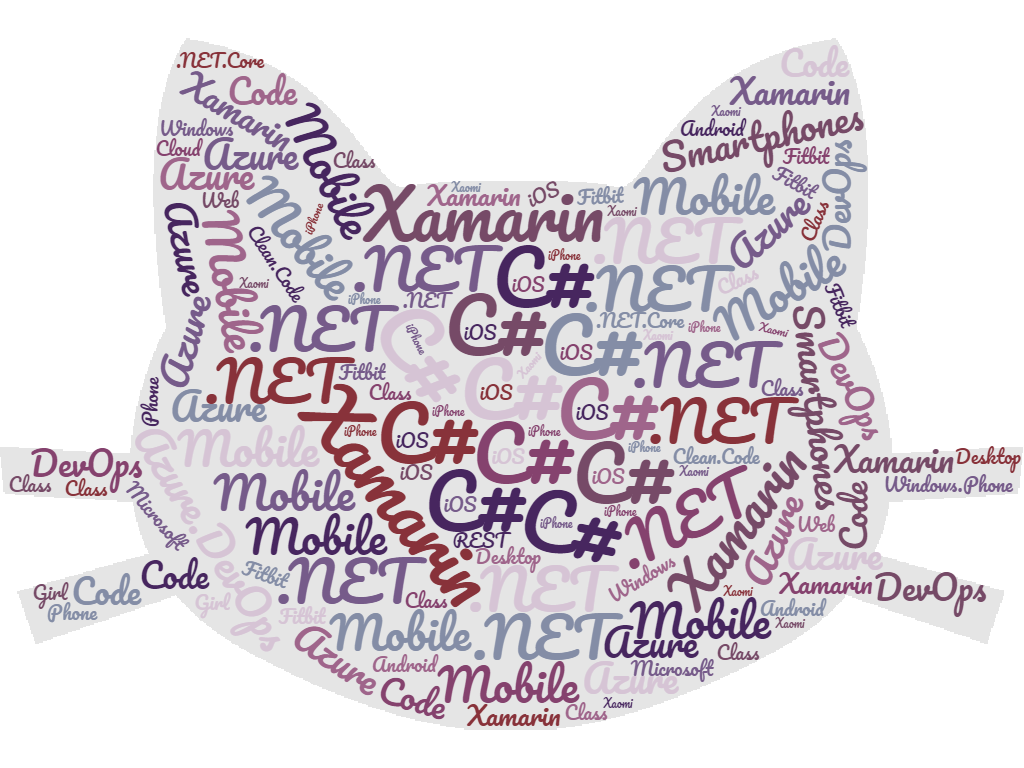
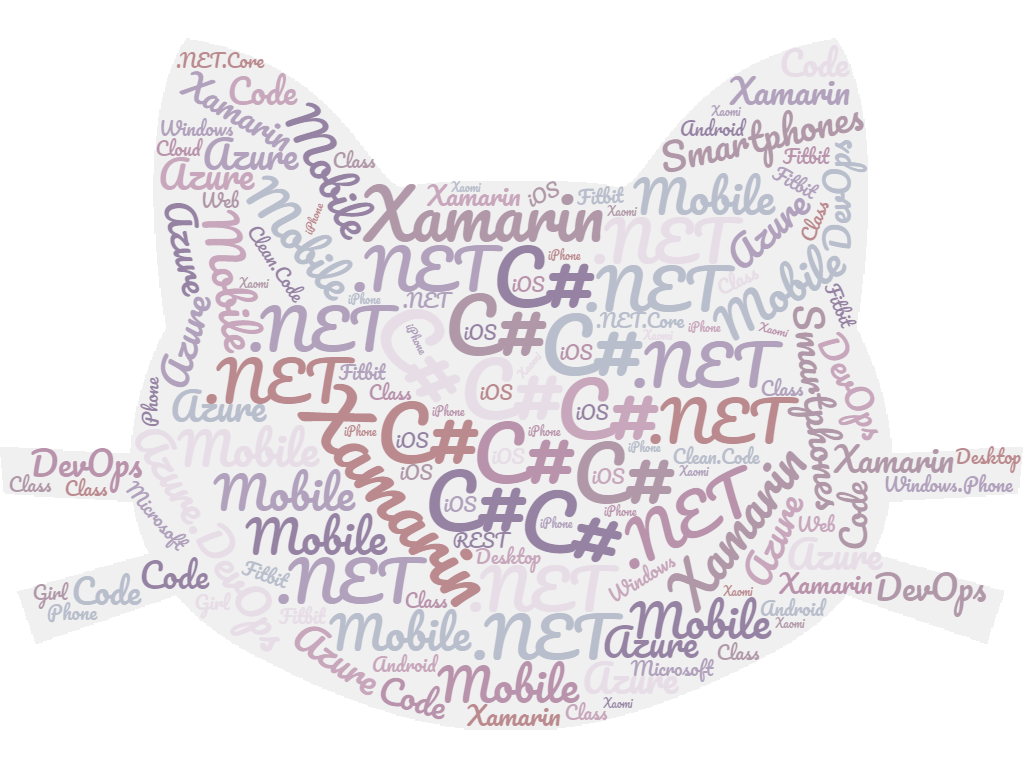
a little opacity for tag cloud

Changed region(s): [[0.0, 0.0625, 1.0, 0.9688]]

diff --git a/_layouts/home.html b/_layouts/home.html
@@ -24,7 +24,15 @@
 </div>
 
 <div id="cookies" style="display:{{site.cookies_banner}}">
-  <p style="text-align:left; padding-left:8px"><a value="hide/show" id="check" class="waves-effect waves-light green lighten-1 btn btn-floating pulse" onclick="Materialize.toast('{{site.cookie_accept_message}}', 2000)" ><i class="material-icons">check</i></a></p>
+  <p style="text-align:left; padding-left:8px">
+    <a 
+      value="hide/show" 
+      id="check" 
+      class="waves-effect waves-light green lighten-1 btn btn-floating pulse" 
+      onclick="Materialize.toast('{{site.cookie_accept_message}}', 2000)" >
+    <i class="material-icons">check</i>
+    </a>
+  </p>
   {% include cookies.html %}
 </div>
 
@@ -52,7 +60,7 @@
           </div>
 
           </div>
-    <div class="parallax"><img src="{{site.parallax_image_two}}" alt="Unsplashed background img 3"></div>
+    <div class="parallax"><img class="a-little-transparent" src="{{site.parallax_image_two}}" alt="Unsplashed background img 3"></div>
   </div>
 
 

diff --git a/assets/css/jlamch.css b/assets/css/jlamch.css
@@ -102,3 +102,8 @@ background-color: rgba(211, 198, 211, 0.767);
 .img-portfolio:hover {
     opacity: 0.8;
 }
+
+
+.a-little-transparent img{
+    opacity: 50%;
+}
